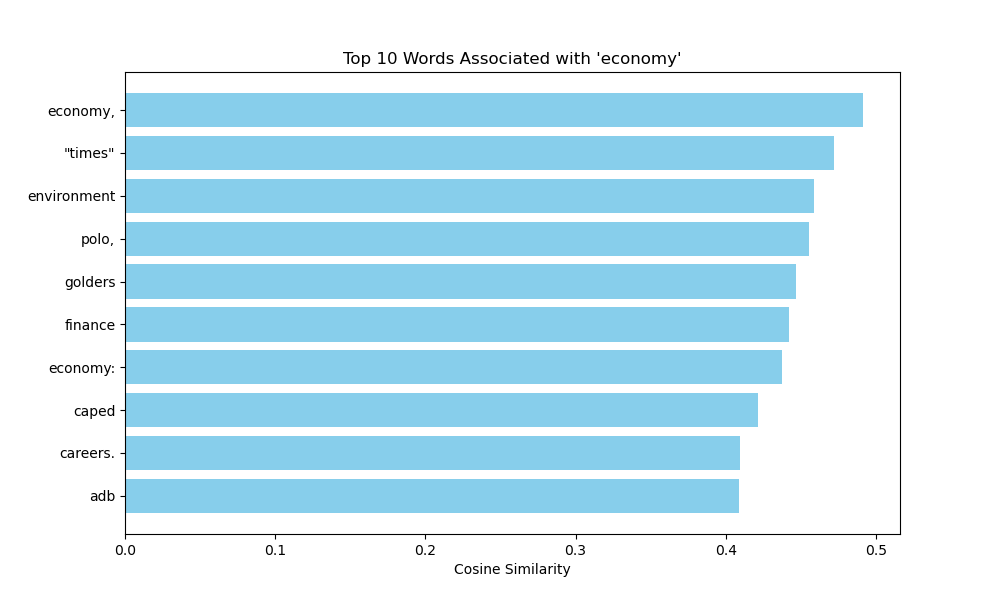
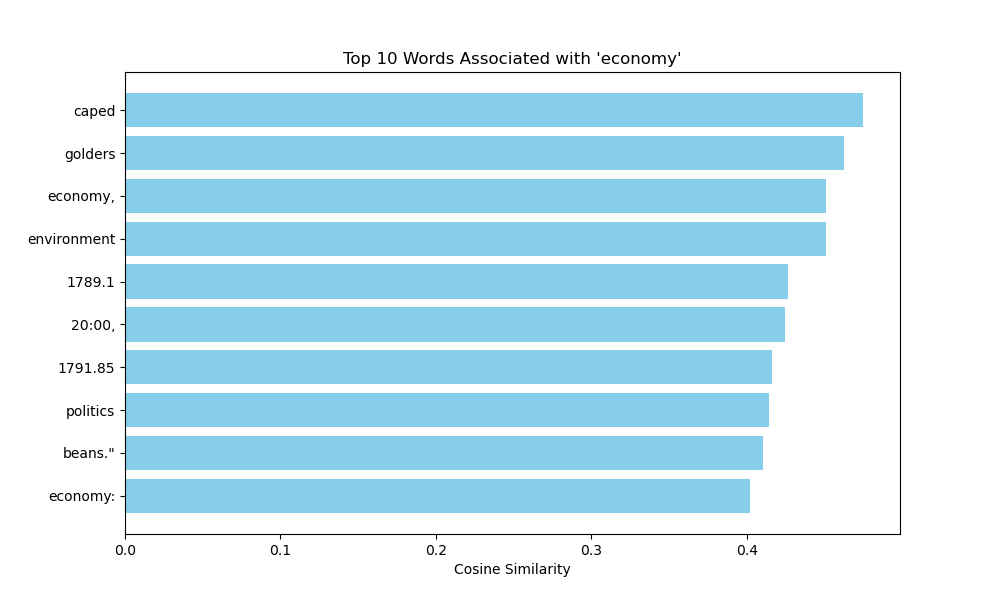
modified

diff --git a/visualize_word_associations.py b/visualize_word_associations.py
@@ -3,26 +3,30 @@ from gensim.models import Word2Vec
 import os
 import pandas as pd
 
+# Ensure the directory for models exists
+model_dir = '/home/otamy001/EvoLang/word2vec_models/'
+os.makedirs(model_dir, exist_ok=True)
+
 # Load data
-old_data = pd.read_csv('/home/otamy001/EvoLang/Dataset/generated_responses_2013.csv')
-new_data = pd.read_csv('/home/otamy001/EvoLang/Dataset/generated_responses_2023.csv')
+old_data = pd.read_csv('/home/otamy001/EvoLang/generated_data/generated_responses_2013.csv')
+new_data = pd.read_csv('/home/otamy001/EvoLang/generated_data/generated_responses_2023.csv')
 
 # Tokenize the articles for each year
 old_data_tokens = [text.split() for text in old_data['Original_Text'].tolist()]
 new_data_tokens = [text.split() for text in new_data['Original_Text'].tolist()]
 
 # Train and save Word2Vec models if they don't already exist
-if not os.path.exists('/home/otamy001/EvoLang/word2vec_models/word2vec_model_2013.model'):
+if not os.path.exists(os.path.join(model_dir, 'word2vec_model_2013.model')):
     model_2013 = Word2Vec(sentences=old_data_tokens, vector_size=100, window=5, min_count=2, workers=4)
-    model_2013.save('/home/otamy001/EvoLang/word2vec_models/word2vec_model_2013.model')
+    model_2013.save(os.path.join(model_dir, 'word2vec_model_2013.model'))
 else:
-    model_2013 = Word2Vec.load('/home/otamy001/EvoLang/word2vec_models/word2vec_model_2013.model')
+    model_2013 = Word2Vec.load(os.path.join(model_dir, 'word2vec_model_2013.model'))
 
-if not os.path.exists('/home/otamy001/EvoLang/word2vec_models/word2vec_model_2023.model'):
+if not os.path.exists(os.path.join(model_dir, 'word2vec_model_2023.model')):
     model_2023 = Word2Vec(sentences=new_data_tokens, vector_size=100, window=5, min_count=2, workers=4)
-    model_2023.save('/home/otamy001/EvoLang/word2vec_models/word2vec_model_2023.model')
+    model_2023.save(os.path.join(model_dir, 'word2vec_model_2023.model'))
 else:
-    model_2023 = Word2Vec.load('/home/otamy001/EvoLang/word2vec_models/word2vec_model_2023.model')
+    model_2023 = Word2Vec.load(os.path.join(model_dir, 'word2vec_model_2023.model'))
 
 # Function to plot word associations
 def plot_word_associations(model, keyword, top_n=10, output_file=None):
@@ -44,15 +48,15 @@ def plot_word_associations(model, keyword, top_n=10, output_file=None):
     else:
         print(f"'{keyword}' not found in the model.")
 
-model_2013 = Word2Vec.load('/home/otamy001/EvoLang/word2vec_models/word2vec_model_2013.model')
-model_2023 = Word2Vec.load('/home/otamy001/EvoLang/word2vec_models/word2vec_model_2023.model')
+output_dir = '/home/otamy001/EvoLang/word_associatioted_graph/'
+os.makedirs(output_dir, exist_ok=True)
 
 # List of keywords to analyze
 keywords = ['economy', 'policy', 'shares', 'technology', 'market']
 
 for keyword in keywords:
     print(f"\nWord associations for '{keyword}' in 2013:")
-    plot_word_associations(model_2013, keyword, output_file=f'/home/otamy001/EvoLang/word_associatioted_graph/word_associations_2013_{keyword}.png')
+    plot_word_associations(model_2013, keyword, output_file=os.path.join(output_dir, f'word_associations_2013_{keyword}.png'))
     
     print(f"\nWord associations for '{keyword}' in 2023:")
-    plot_word_associations(model_2023, keyword, output_file=f'/home/otamy001/EvoLang/word_associatioted_graph/word_associations_2023_{keyword}.png')
+    plot_word_associations(model_2023, keyword, output_file=os.path.join(output_dir, f'word_associations_2023_{keyword}.png'))

diff --git a/utils/macros.py b/utils/macros.py
@@ -1,45 +1,46 @@
-import pandas as pd
-from sentence_transformers import SentenceTransformer
-from gensim.models import Word2Vec
 import os
+import pandas as pd
+from gensim.models import Word2Vec
+from sentence_transformers import SentenceTransformer
 
 # Paths
 BASE_DIR = '/home/otamy001/EvoLang'
-DATA_DIR = os.path.join(BASE_DIR, 'generated_data')
+DATA_DIR = os.path.join(BASE_DIR, 'Dataset')
+GENERATED_DATA_DIR = os.path.join(BASE_DIR, 'generated_data')
 OUTPUT_DIR = os.path.join(BASE_DIR, 'outputs')
 MODEL_DIR = os.path.join(BASE_DIR, 'word2vec_models')
 
-# Ensure output directories exist
+# Ensure directories exist
+os.makedirs(GENERATED_DATA_DIR, exist_ok=True)
 os.makedirs(OUTPUT_DIR, exist_ok=True)
 os.makedirs(MODEL_DIR, exist_ok=True)
 
-# Load data
+# Load preprocessed datasets
 def load_data():
-    data_2013 = pd.read_csv(os.path.join(DATA_DIR, 'generated_responses_2013.csv'))
-    data_2023 = pd.read_csv(os.path.join(DATA_DIR, 'generated_responses_2023.csv'))
-    return data_2013, data_2023
+    old_data = pd.read_csv(os.path.join(GENERATED_DATA_DIR, 'generated_responses_2013.csv'))
+    new_data = pd.read_csv(os.path.join(GENERATED_DATA_DIR, 'generated_responses_2023.csv'))
+    return old_data, new_data
 
-# Tokenize data
+# Tokenize datasets
 def tokenize_data(data):
-    return [word for text in data['Original_Text'] for word in text.split()]
+    return [text.split() for text in data['Original_Text'].tolist()]
 
-# Sentence-BERT Model
+# Preload data and tokens
+old_data, new_data = load_data()
+tokens_2013 = tokenize_data(old_data)
+tokens_2023 = tokenize_data(new_data)
+
+# Sentence-BERT model
 sentence_bert_model = SentenceTransformer('all-MiniLM-L6-v2')
 
-# Word2Vec Models
-def load_or_train_word2vec(data_tokens, year):
+# Word2Vec models
+def load_or_train_word2vec(tokens, year):
     model_path = os.path.join(MODEL_DIR, f'word2vec_model_{year}.model')
     if os.path.exists(model_path):
-        model = Word2Vec.load(model_path)
-    else:
-        model = Word2Vec(sentences=data_tokens, vector_size=100, window=5, min_count=2, workers=4)
-        model.save(model_path)
+        return Word2Vec.load(model_path)
+    model = Word2Vec(sentences=tokens, vector_size=100, window=5, min_count=2, workers=4)
+    model.save(model_path)
     return model
-
-# Load and preprocess everything
-data_2013, data_2023 = load_data()
-tokens_2013 = tokenize_data(data_2013)
-tokens_2023 = tokenize_data(data_2023)
 
 word2vec_model_2013 = load_or_train_word2vec(tokens_2013, 2013)
 word2vec_model_2023 = load_or_train_word2vec(tokens_2023, 2023)

diff --git a/analyze_data.py b/analyze_data.py
@@ -1,24 +1,20 @@
 # analyze_data.py
 
 from utils import text_analysis_utils as analysis_utils
-import pandas as pd
+from utils.macros import old_data, new_data, OUTPUT_DIR
 
-# Load preprocessed and generated data
-old_data = pd.read_csv("generated_responses_2013.csv")
-new_data = pd.read_csv("generated_responses_2023.csv")
-
-# Convert data to the expected format for analysis functions
+# Convert data to expected format
 old_events = [{"text": text} for text in old_data["Original_Text"]]
 new_events = [{"text": text} for text in new_data["Original_Text"]]
 
 # Perform analysis
-analysis_utils.word_frequency_analysis(old_events, "2013 Articles", "/home/otamy001/EvoLang/outputs/word_freq_2013.png")
-analysis_utils.word_frequency_analysis(new_events, "2023 Articles", "/home/otamy001/EvoLang/outputs/word_freq_2023.png")
-analysis_utils.generate_wordcloud(old_events, "2013 Articles", "/home/otamy001/EvoLang/outputs/wordcloud_2013.png")
-analysis_utils.generate_wordcloud(new_events, "2023 Articles", "/home/otamy001/EvoLang/outputs/wordcloud_2023.png")
+analysis_utils.word_frequency_analysis(old_events, "2013 Articles", os.path.join(OUTPUT_DIR, 'word_freq_2013.png'))
+analysis_utils.word_frequency_analysis(new_events, "2023 Articles", os.path.join(OUTPUT_DIR, 'word_freq_2023.png'))
+analysis_utils.generate_wordcloud(old_events, "2013 Articles", os.path.join(OUTPUT_DIR, 'wordcloud_2013.png'))
+analysis_utils.generate_wordcloud(new_events, "2023 Articles", os.path.join(OUTPUT_DIR, 'wordcloud_2023.png'))
 
 # Sentiment analysis
 sentiment_2013 = analysis_utils.analyze_sentiment(old_events)
 sentiment_2023 = analysis_utils.analyze_sentiment(new_events)
-analysis_utils.visualize_sentiment(sentiment_2013, "2013 Articles", "/home/otamy001/EvoLang/outputs/visualize_sentiment_2013.png")
-analysis_utils.visualize_sentiment(sentiment_2023, "2023 Articles", "/home/otamy001/EvoLang/outputs/visualize_sentiment_2023.png")
+analysis_utils.visualize_sentiment(sentiment_2013, "2013 Articles", os.path.join(OUTPUT_DIR, 'visualize_sentiment_2013.png'))
+analysis_utils.visualize_sentiment(sentiment_2023, "2023 Articles", os.path.join(OUTPUT_DIR, 'visualize_sentiment_2023.png'))

diff --git a/generate_data.py b/generate_data.py
@@ -1,25 +1,26 @@
 # generate_data.py
 
 from transformers import AutoTokenizer, AutoModelForCausalLM
-from utils import text_preprocessing_utils as preprocess_utils
-from utils import text_generation_utils as gen_utils
+from utils import text_preprocessing_utils as preprocess_utils, text_generation_utils as gen_utils
+from utils.macros import GENERATED_DATA_DIR, DATA_DIR
 import torch
 
-
+# Model setup
 model_id = "meta-llama/Llama-3.2-1B"
 tokenizer = AutoTokenizer.from_pretrained(model_id)
 device = torch.device("cuda" if torch.cuda.is_available() else "cpu")
 model = AutoModelForCausalLM.from_pretrained(model_id, torch_dtype=torch.float16, device_map="auto")
 tokenizer.pad_token_id = tokenizer.eos_token_id
-# path = '/home/otamy001/EvoLang/2013_year.csv'
-old_event_csv = '/home/otamy001/EvoLang/Dataset/2013_year.csv'
-new_event_csv = '/home/otamy001/EvoLang/Dataset/2023_year.csv'
+
+# Load datasets
+old_event_csv = os.path.join(DATA_DIR, '2013_year.csv')
+new_event_csv = os.path.join(DATA_DIR, '2023_year.csv')
 old_events = preprocess_utils.load_and_preprocess_dataset(old_event_csv, text_column=0)
 new_events = preprocess_utils.load_and_preprocess_dataset(new_event_csv, text_column=0)
 
+# Generate and save data
 old_results = gen_utils.process_in_batches(old_events, model, tokenizer)
-gen_utils.save_results_to_csv(old_results, "/home/otamy001/EvoLang/generated_data/generated_responses_2013.csv")
+gen_utils.save_results_to_csv(old_results, os.path.join(GENERATED_DATA_DIR, 'generated_responses_2013.csv'))
 new_results = gen_utils.process_in_batches(new_events, model, tokenizer)
-gen_utils.save_results_to_csv(new_results, "/home/otamy001/EvoLang/generated_data/generated_responses_2023.csv")
-
+gen_utils.save_results_to_csv(new_results, os.path.join(GENERATED_DATA_DIR, 'generated_responses_2023.csv'))
 

diff --git a/utils/text_analysis_utils.py b/utils/text_analysis_utils.py
@@ -9,6 +9,7 @@ import pandas as pd
 import nltk
 from nltk.corpus import stopwords
 import torch
+import os
 
 # Download stopwords if not already available
 nltk.download('stopwords')
@@ -117,3 +118,39 @@ def heat_map(maps, title, output_file):
     plt.title(title)
     plt.savefig(output_file) 
     plt.close()  
+    
+    
+def plot_bar_chart(data, title, xlabel, ylabel, output_file):
+    # Convert keys and values to lists
+    keys = list(data.keys())
+    values = list(data.values())
+    
+    plt.figure(figsize=(10, 6))
+    plt.barh(keys, values, color='skyblue')
+    plt.gca().invert_yaxis()
+    plt.title(title)
+    plt.xlabel(xlabel)
+    plt.ylabel(ylabel)
+    plt.savefig(output_file)
+    plt.close()
+    print(f"Chart saved to {output_file}")
+
+def plot_keyword_frequency(keywords, tokens_2013, tokens_2023, output_file):
+    freq_2013 = Counter(tokens_2013)
+    freq_2023 = Counter(tokens_2023)
+
+    frequencies = {
+        'Keyword': keywords,
+        '2013': [freq_2013[keyword] for keyword in keywords],
+        '2023': [freq_2023[keyword] for keyword in keywords]
+    }
+
+    plt.bar(frequencies['Keyword'], frequencies['2013'], alpha=0.6, label='2013')
+    plt.bar(frequencies['Keyword'], frequencies['2023'], alpha=0.6, label='2023')
+    plt.title('Keyword Frequency Comparison (2013 vs 2023)')
+    plt.xlabel('Keyword')
+    plt.ylabel('Frequency')
+    plt.legend()
+    plt.savefig(output_file)
+    plt.close()
+    print(f"Keyword frequency comparison saved to {output_file}")

diff --git a/apply_topic_modeling.py b/apply_topic_modeling.py
@@ -19,8 +19,8 @@ def apply_topic_modeling(data, keyword, num_topics=3, num_words=5):
     else:
         print(f"No articles found for '{keyword}'.")
 
-old_data = pd.read_csv('/home/otamy001/EvoLang/Dataset/generated_responses_2013.csv')
-new_data = pd.read_csv('/home/otamy001/EvoLang/Dataset/generated_responses_2023.csv')
+old_data = pd.read_csv('/home/otamy001/EvoLang/generated_data/generated_responses_2013.csv')
+new_data = pd.read_csv('/home/otamy001/EvoLang/generated_data/generated_responses_2023.csv')
 
 # List of keywords to analyze
 keywords = ['economy', 'policy', 'shares', 'technology', 'market']
